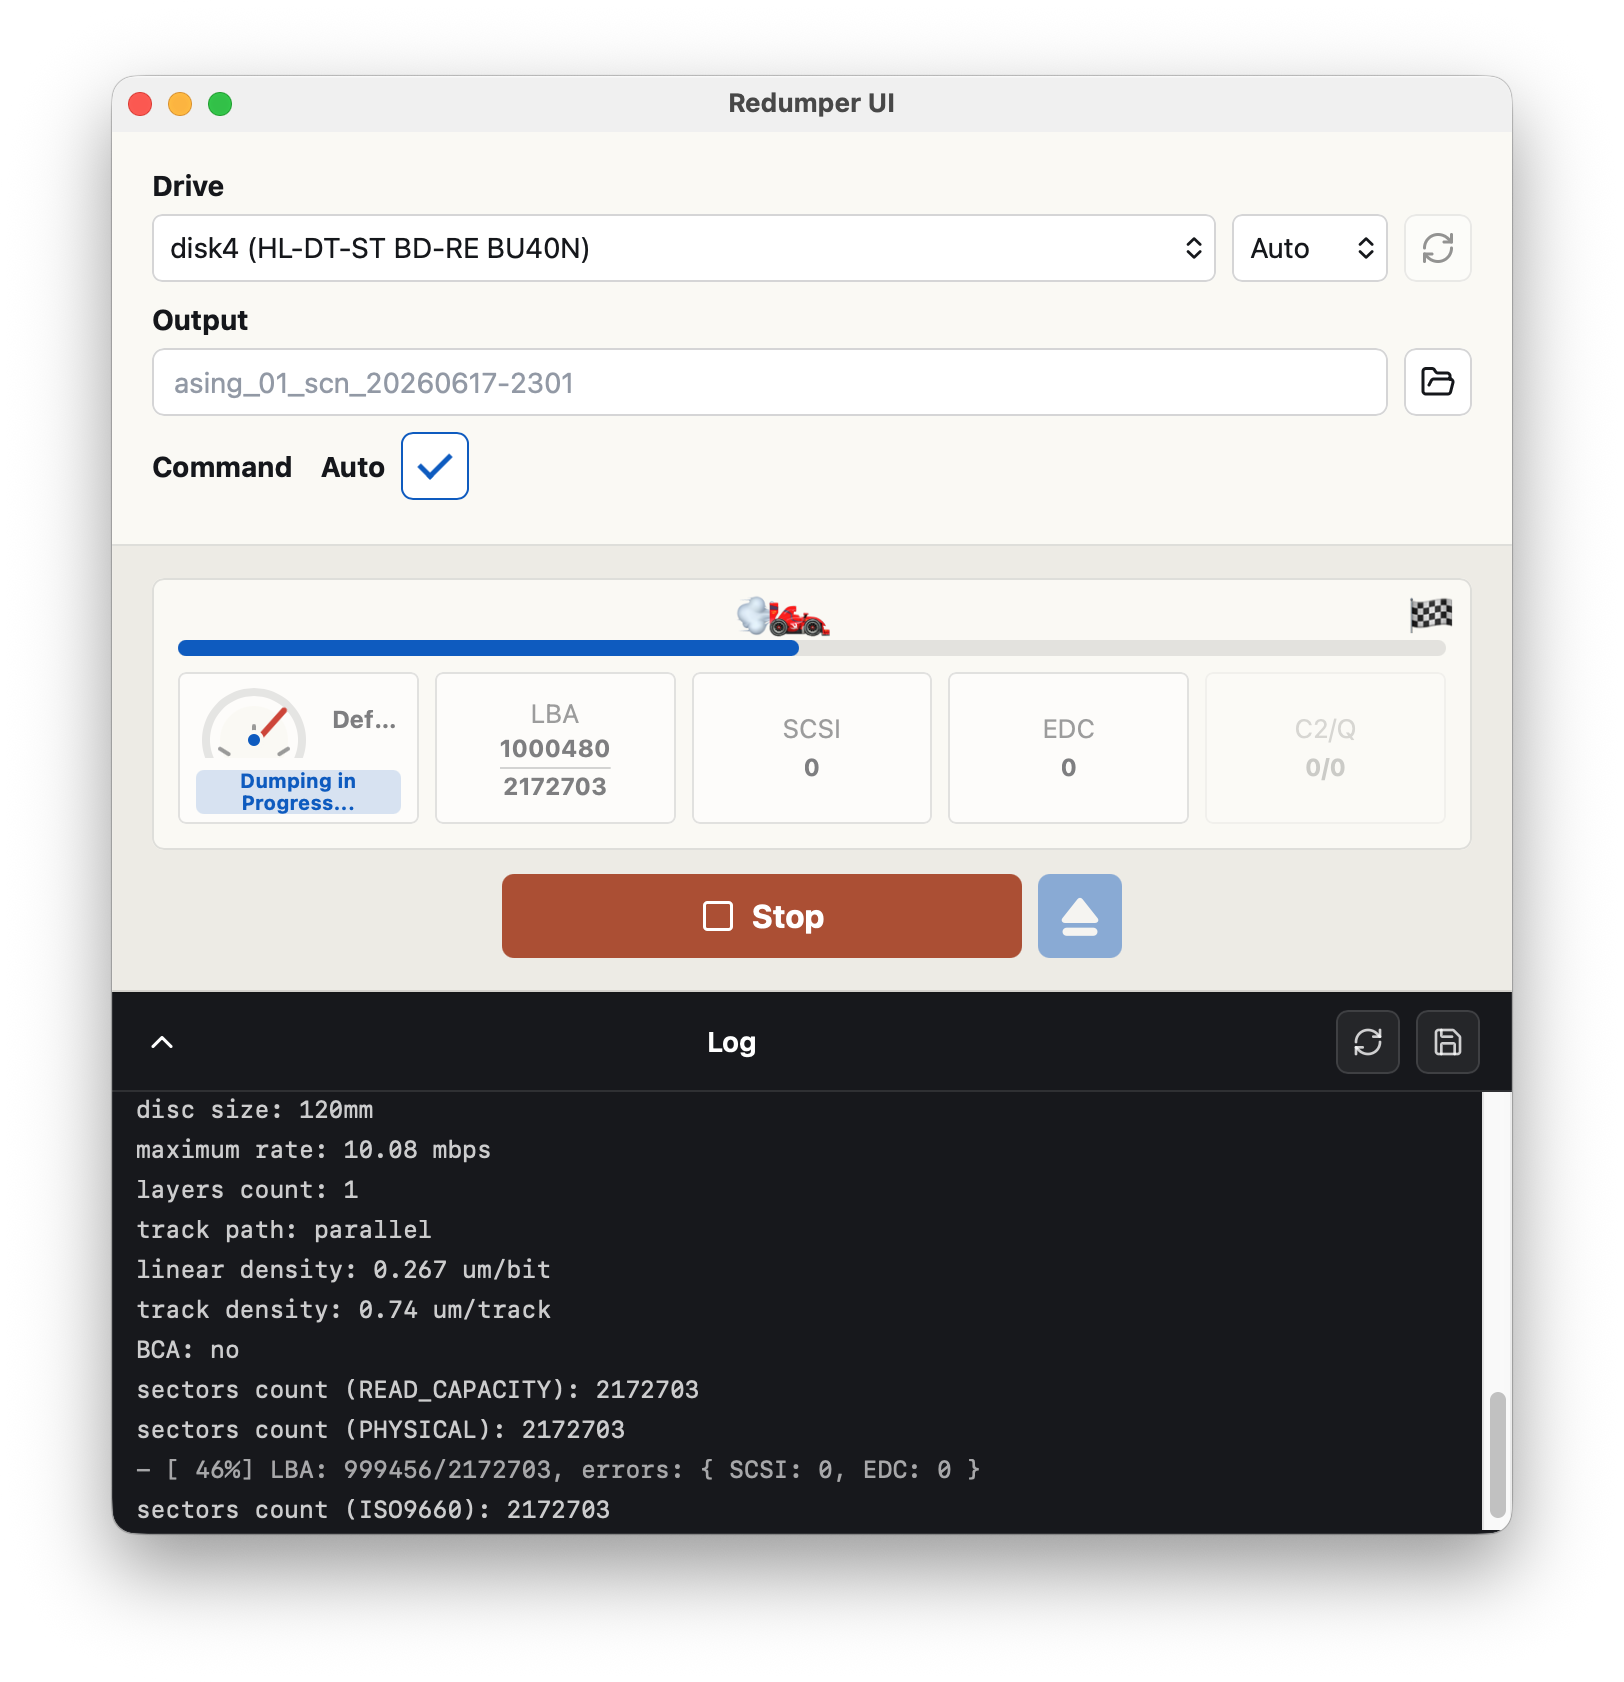
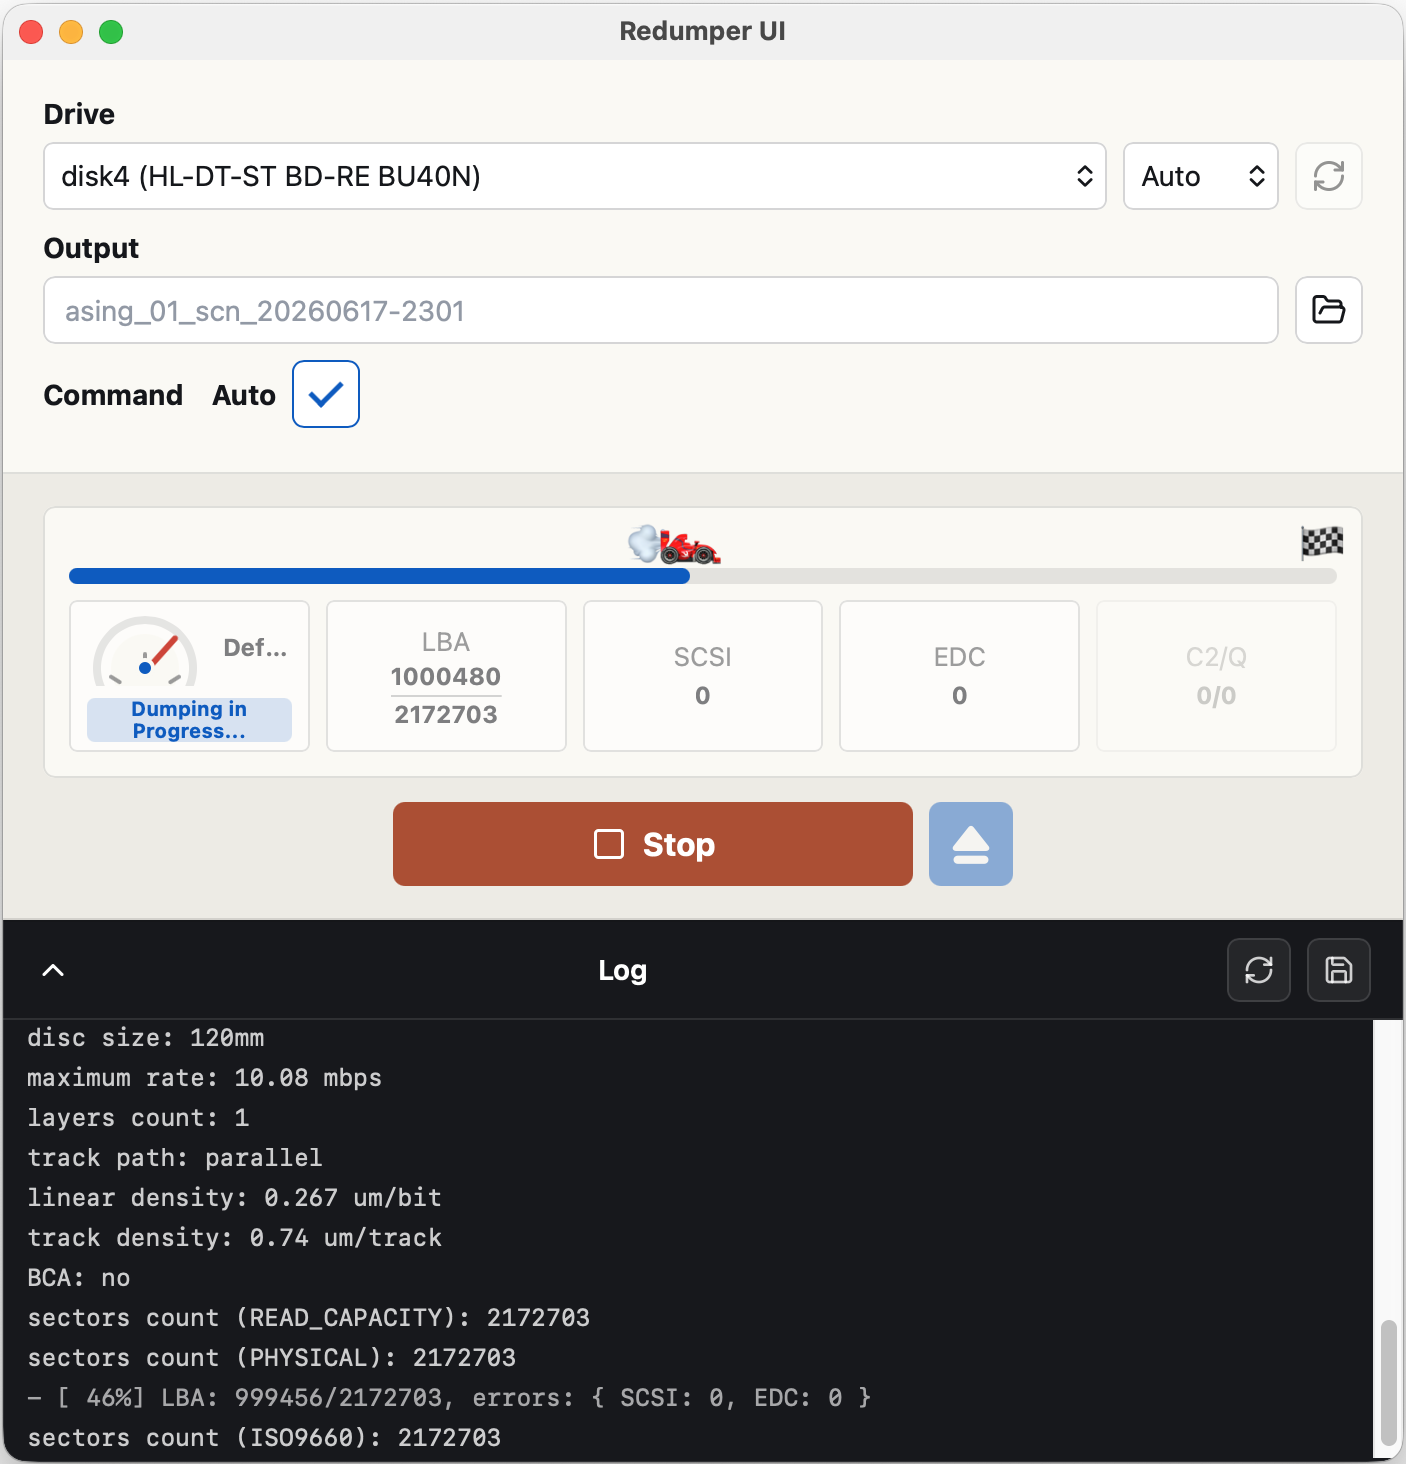
Refresh README screenshots

diff --git a/README.md b/README.md
@@ -8,12 +8,6 @@ The app is built with Tauri v2, Rust, React, TypeScript, and Tailwind CSS. It
 wraps the official redumper CLI with a typed command UI, streamed logs, and
 platform-aware packaging.
 
-## Support Ukraine
-
-Redumper UI includes the same Ukraine support banner used by
-[`superg/redumper`](https://github.com/superg/redumper), the upstream CLI app by
-superg. The banner links to donation and support resources for Ukraine.
-
 ## Screenshots
 
 ![Redumper UI main window](assets/screenshots/1.png)